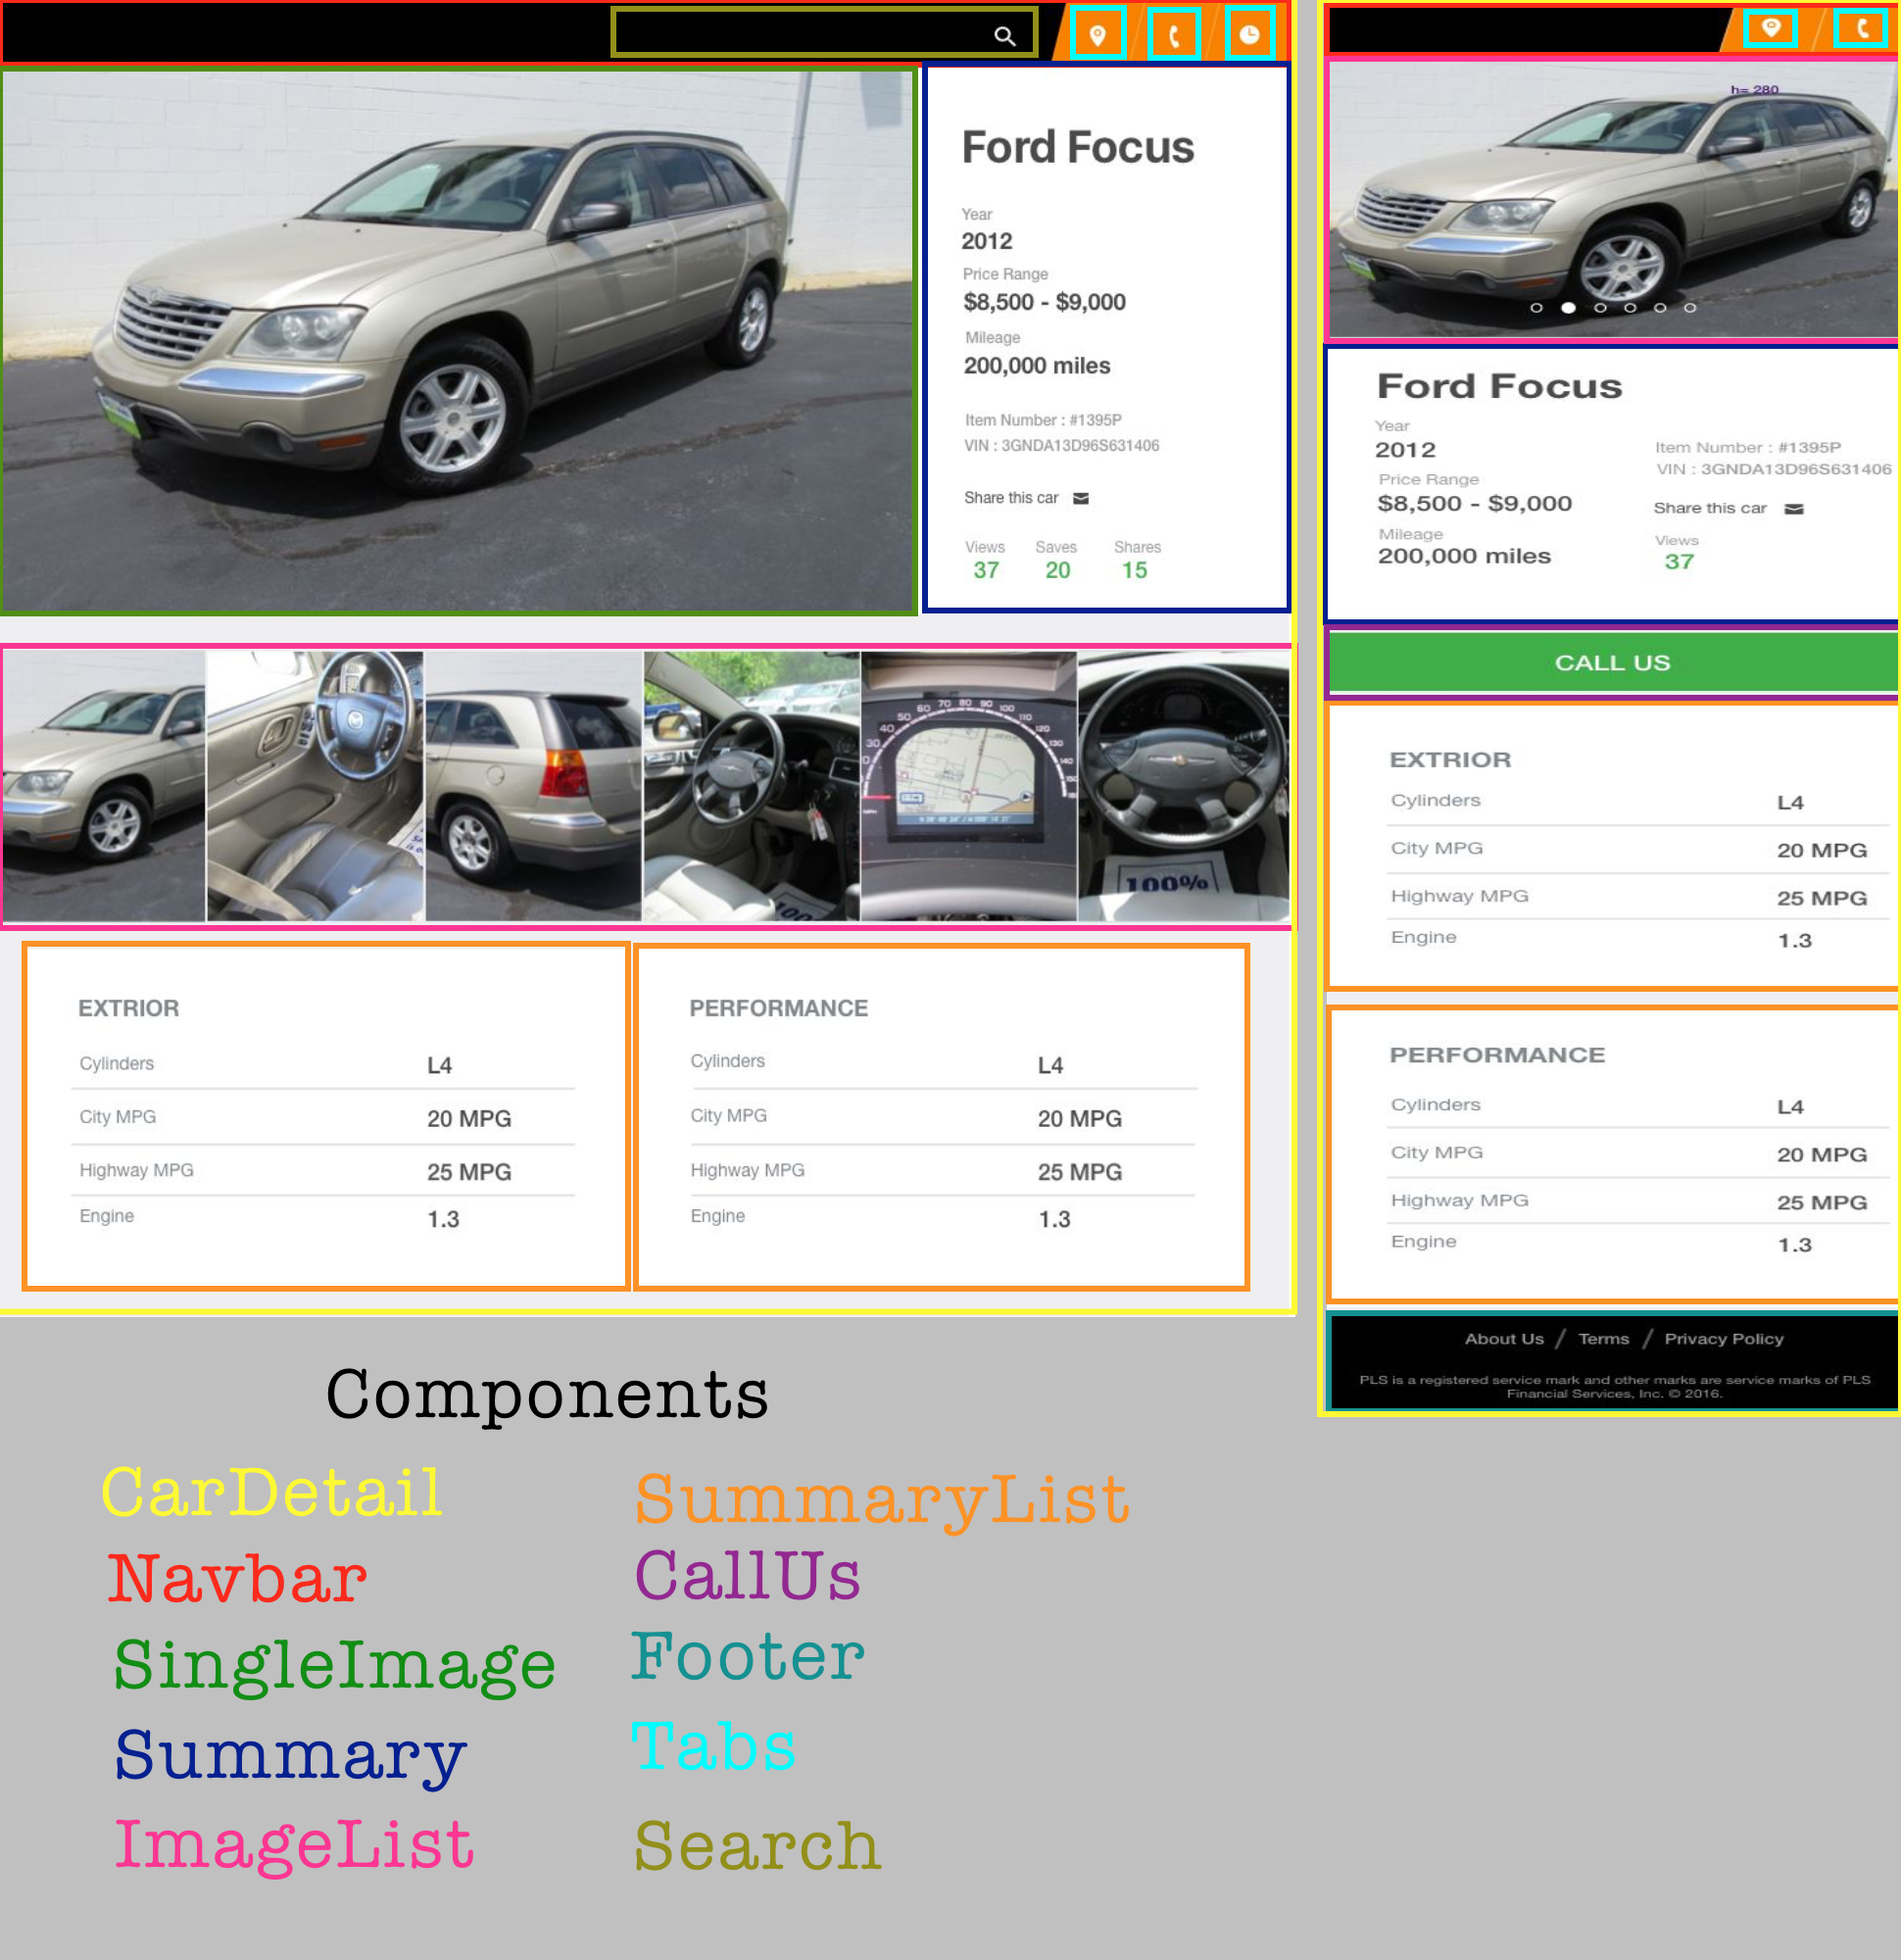
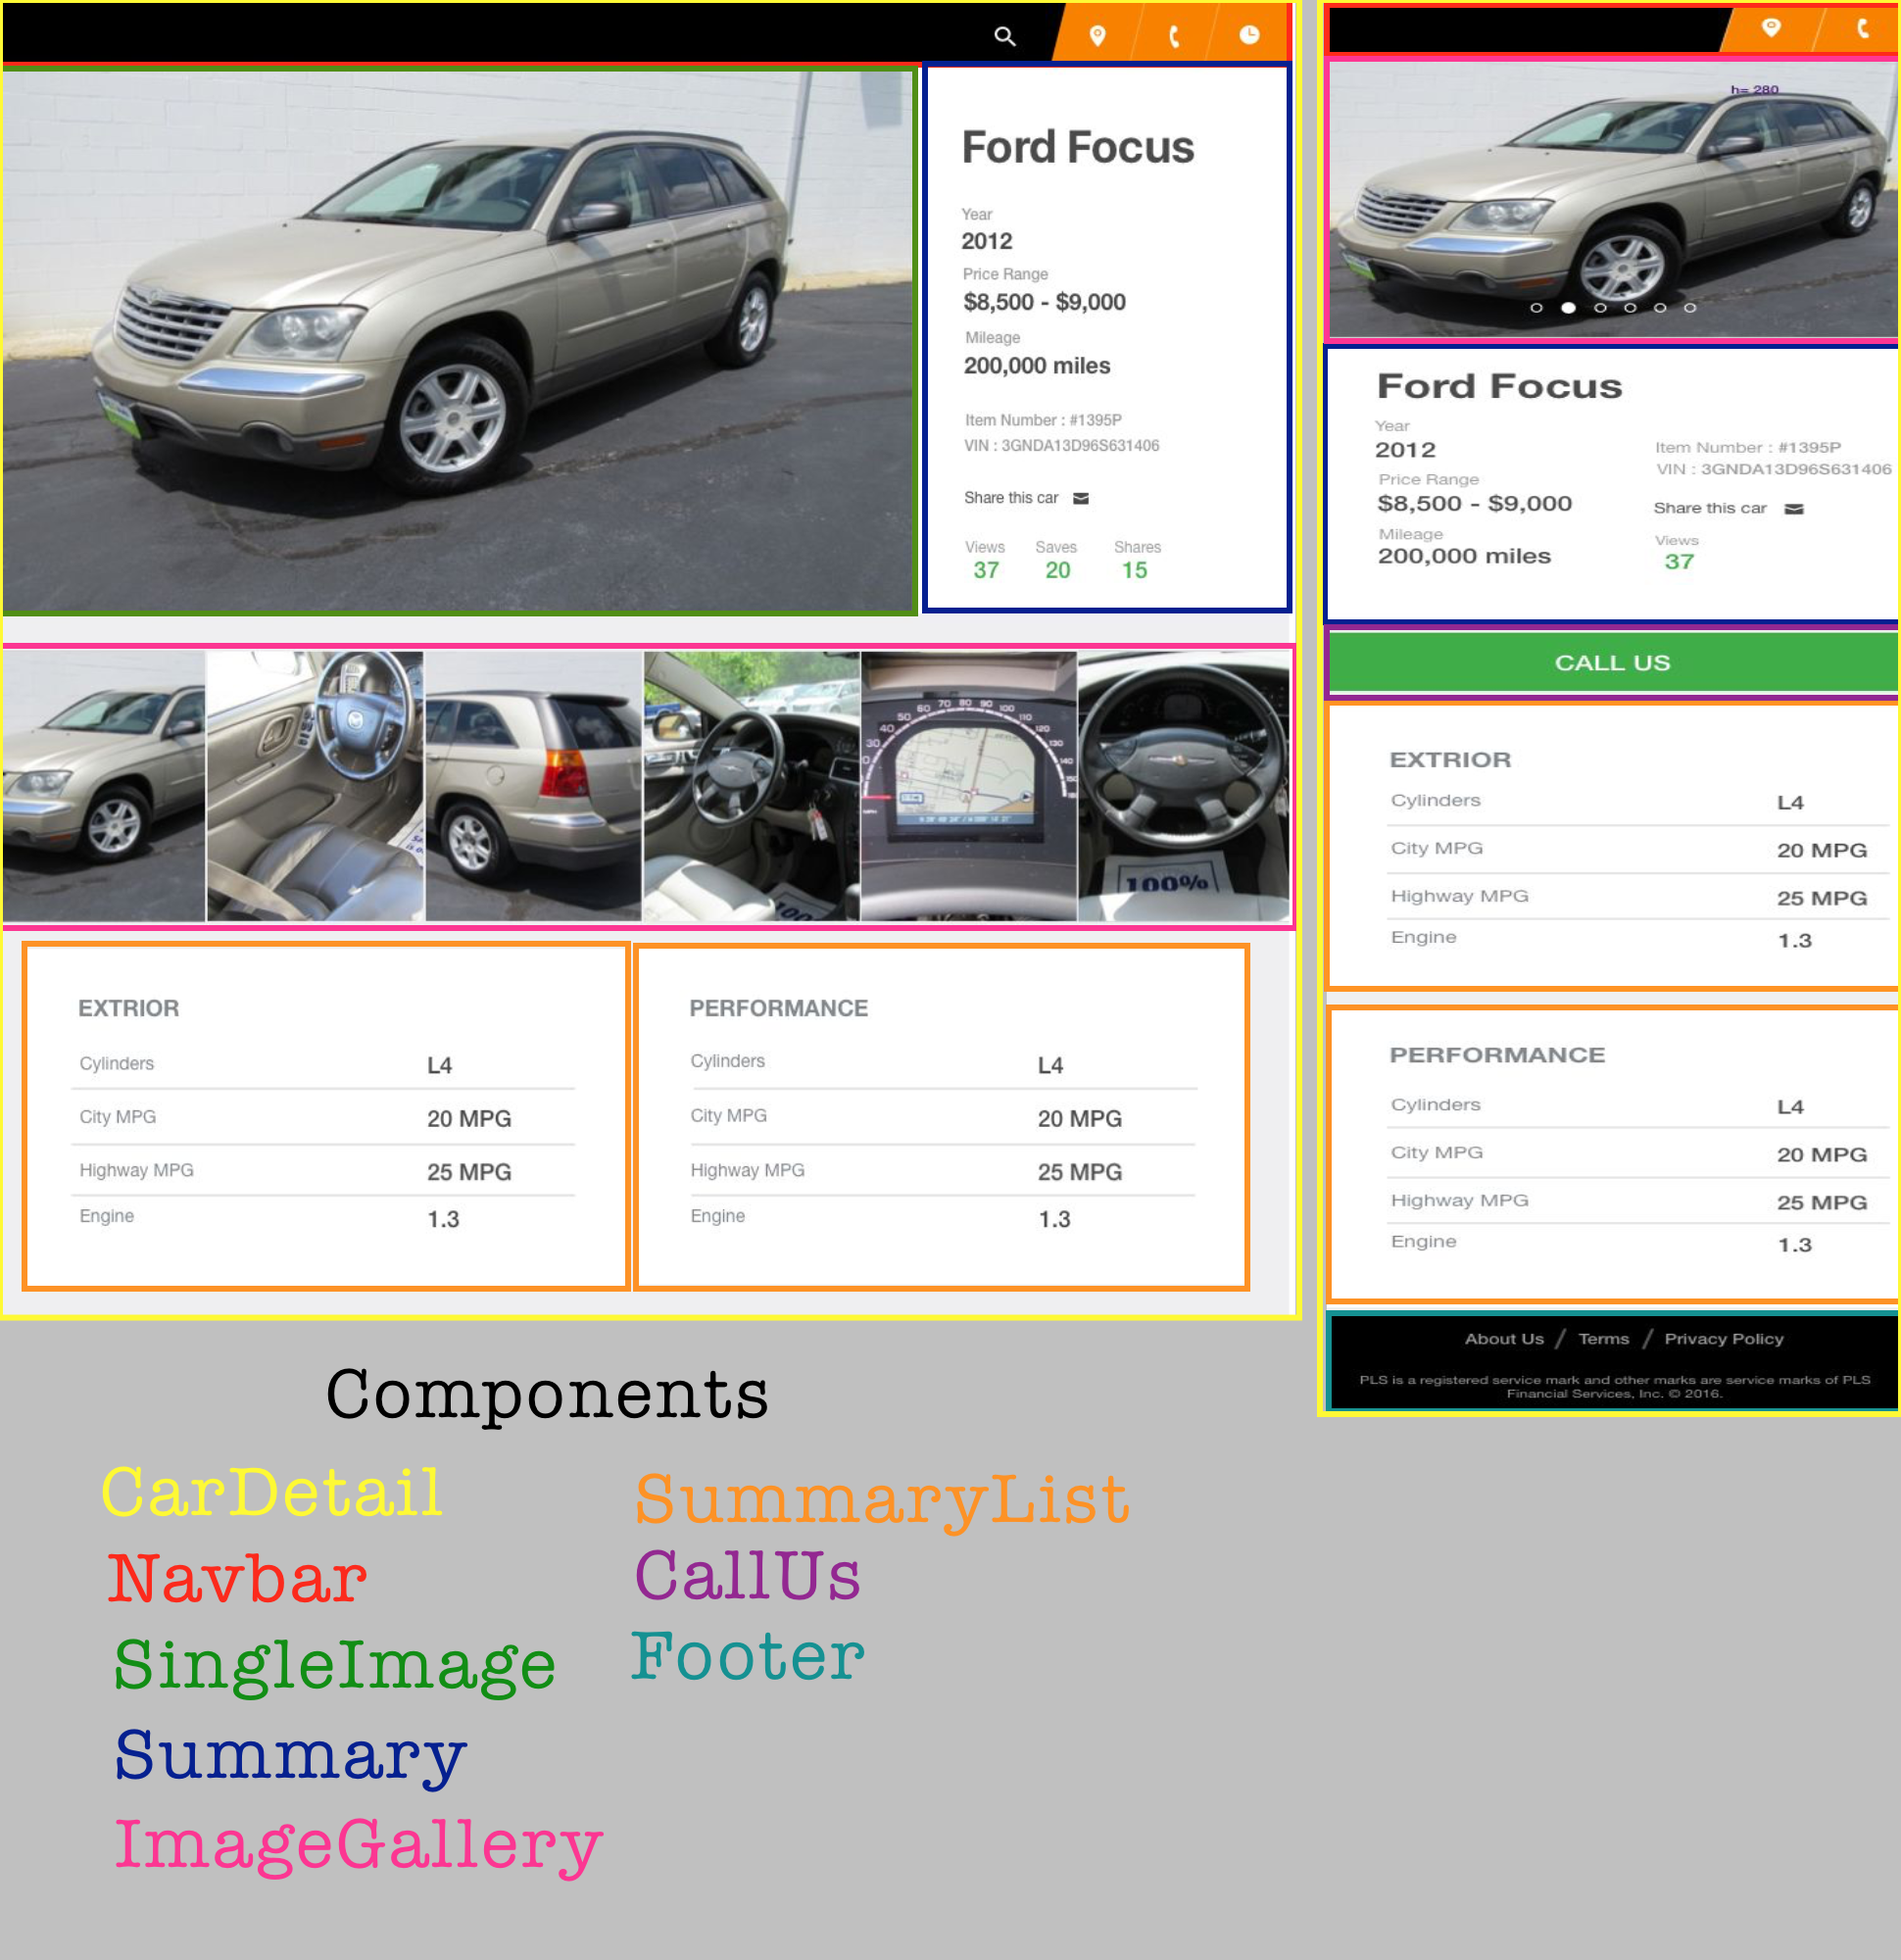
implemented static version of components

diff --git a/src/public/js/car-detail.jsx b/src/public/js/car-detail.jsx
@@ -1,4 +1,13 @@
 import React from 'react';
+import Navbar from './navbar';
+import Search from './search';
+import Tab from './tab';
+import SingleImage from './single-image';
+import Summary from './summary';
+import ImageGallery from './image-gallery';
+import SummaryList from './summary-list';
+import CallUs from './call-us';
+import Footer from './footer';
 
 /*
  * Main component for the WebTask app. Since the app is so small,
@@ -15,7 +24,7 @@ export default class CarDetail extends React.Component {
 
     // Set initial state
     this.state = {
-      width: window.innerWidth
+      width: window.innerWidth,
     };
   }
 
@@ -37,13 +46,108 @@ export default class CarDetail extends React.Component {
     const { width } = this.state;
     const isMobile = width <= 500;
 
+    const images = ['ford1.jpeg', 'ford2.jpeg', 'ford3.jpeg', 'ford4.jpeg', 'ford5.jpeg'];
+    const content = {
+      Cylinders: 'L4',
+      'City MPG': '20',
+      'HighWay MPG': '25',
+      Engine: 1.3,
+    };
+
     if (isMobile) {
       return (
-        <p>Mobile: {this.state.width}</p>
+        <div>
+          <Navbar>
+            <Tab
+              icon="fa-map-marker"
+              title="Directions to dealer"
+              srText="Directions to dealer"
+            />
+            <Tab
+              icon="fa-phone"
+              title="Call dealer"
+              srText="Call dealer"
+            />
+          </Navbar>
+          <ImageGallery
+            images={images}
+          />
+          <Summary
+            itemNumber="1395P"
+            vin="3GNDA13D96S631406"
+            carName="Ford Focus"
+            releaseYear="2012"
+            minPrice="$8,500.00"
+            maxPrice="$9,000.00"
+            mileage="200000"
+            views="37"
+            saves="20"
+            shares="15"
+          />
+          <CallUs />
+          <SummaryList
+            title="Extrior"
+            content={content}
+          />
+          <SummaryList
+            title="Performance"
+            content={content}
+          />
+          <Footer />
+        </div>
       );
     } else {
       return (
-        <p>{this.state.width}</p>
+        <div>
+          <Navbar>
+            <Search />
+            <ul>
+              <Tab
+                icon="fa-map-marker"
+                title="Directions to dealer"
+                srText="Directions to dealer"
+              />
+              <Tab
+                icon="fa-phone"
+                title="Call dealer"
+                srText="Call dealer"
+              />
+              <Tab
+                icon="fa-pie-chart"
+                title="Stats"
+                srText="Stats"
+              />
+            </ul>
+          </Navbar>
+          <main>
+            <SingleImage
+              picture="ford1.jpeg"
+            />
+            <Summary
+              itemNumber="1395P"
+              vin="3GNDA13D96S631406"
+              carName="Ford Focus"
+              releaseYear="2012"
+              minPrice="$8,500.00"
+              maxPrice="$9,000.00"
+              mileage="200000"
+              views="37"
+              saves="20"
+              shares="15"
+            />
+            <ImageGallery
+              images={images}
+            />
+            <SummaryList
+              title="Extrior"
+              content={content}
+            />
+            <SummaryList
+              title="Performance"
+              content={content}
+            />
+          </main>
+        </div>
       );
     }
   }

diff --git a/src/public/js/summary.jsx b/src/public/js/summary.jsx
@@ -1,0 +1,48 @@
+import React from 'react';
+
+export default function Navbar(props) {
+  return (
+    <div>
+      <h4>{props.carName}</h4>
+      <h4>Year</h4>
+      <h4>{props.releaseYear}</h4>
+      <h4>Price Range</h4>
+      <h4>{props.minPrice} - {props.maxPrice}</h4>
+      <h4>Mileage</h4>
+      <h4>{props.mileage.replace(/\B(?=(\d{3})+(?!\d))/g, ',')} miles</h4>
+      <h4>Item Number: #{props.itemNumber}</h4>
+      <h4>VIN: {props.vin}</h4>
+      <h4>
+        <a href="mailto:someone@not-real.com?Subject=Not%20Real" target="_top">Share This Car</a>
+        <i className="fa fa-envelope" aria-hidden="true"></i>
+      </h4>
+      <div>
+        <h4>Views</h4>
+        <h4>{props.views}</h4>
+      </div>
+      <div>
+        <h4>Saves</h4>
+        <h4>{props.saves}</h4>
+      </div>
+      <div>
+        <h4>Shares</h4>
+        <h4>{props.shares}</h4>
+      </div>
+    </div>
+  );
+}
+
+const propTypes = {
+  itemNumber: React.PropTypes.string,
+  vin: React.PropTypes.string,
+  carName: React.PropTypes.string,
+  releaseYear: React.PropTypes.string,
+  minPrice: React.PropTypes.string,
+  maxPrice: React.PropTypes.string,
+  mileage: React.PropTypes.string,
+  views: React.PropTypes.string,
+  saves: React.PropTypes.string,
+  shares: React.PropTypes.string,
+};
+
+Navbar.propTypes = propTypes;

diff --git a/src/public/js/summary-list.jsx b/src/public/js/summary-list.jsx
@@ -1,0 +1,28 @@
+import React from 'react';
+
+export default function SummaryList(props) {
+  const items = Object.keys(props.content).map((key, i) => {
+    return (
+      <li key={i}>
+        <h4>{key}</h4>
+        <h4>{props.content[key]}</h4>
+      </li>
+    );
+  });
+
+  return (
+    <div>
+      <h4>{props.title}</h4>
+      <ul>
+        {items}
+      </ul>
+    </div>
+  );
+}
+
+const propTypes = {
+  title: React.PropTypes.string,
+  content: React.PropTypes.object,
+};
+
+SummaryList.propTypes = propTypes;

diff --git a/src/public/js/tab.jsx b/src/public/js/tab.jsx
@@ -1,0 +1,18 @@
+import React from 'react';
+
+export default function Tab(props) {
+  return (
+    <li>
+      <i className={'fa ' + props.icon} title={props.title} aria-hidden="true"></i>
+      <span className="sr-only">{ props.srText }</span>
+    </li>
+  );
+}
+
+const propTypes = {
+  icon: React.PropTypes.string,
+  title: React.PropTypes.string,
+  srText: React.PropTypes.string,
+};
+
+Tab.propTypes = propTypes;

diff --git a/src/public/js/image-gallery.jsx b/src/public/js/image-gallery.jsx
@@ -1,0 +1,24 @@
+import React from 'react';
+
+export default function ImageGallery(props) {
+
+  const list = props.images.map((picture, i) => {
+    return (
+      <li key={i}>
+        <img src={'img/' + picture} />
+      </li>
+    );
+  });
+
+  return (
+    <ul>
+      {list}
+    </ul>
+  );
+}
+
+const propTypes = {
+  images: React.PropTypes.array,
+};
+
+ImageGallery.propTypes = propTypes;

diff --git a/src/public/js/footer.jsx b/src/public/js/footer.jsx
@@ -1,0 +1,20 @@
+import React from 'react';
+
+export default function CallUs() {
+  return (
+    <footer>
+      <ul>
+        <li>
+          <a href="/">About US</a>
+        </li>
+        <li>
+          <a href="/">Terms</a>
+        </li>
+        <li>
+          <a href="/">Privacy Policy</a>
+        </li>
+      </ul>
+      <p>Copy right notice</p>
+    </footer>
+  );
+}

diff --git a/src/public/index.html b/src/public/index.html
@@ -9,6 +9,7 @@
 	<meta name="viewport" content="width=device-width, initial-scale=1.0">
 	<meta http-equiv="X-UA-Compatible" content="ie=edge">
 	<link rel="stylesheet" href="webtask.1.0.0.css">
+  <link rel="stylesheet" href="https://use.fontawesome.com/7927600000.css">
 </head>
 
 <body>

diff --git a/src/public/js/single-image.jsx b/src/public/js/single-image.jsx
@@ -1,0 +1,13 @@
+import React from 'react';
+
+export default function SingleImage(props) {
+  return (
+    <img src={'img/' + props.picture} />
+  );
+}
+
+const propTypes = {
+  picture: React.PropTypes.string,
+};
+
+SingleImage.propTypes = propTypes;

diff --git a/src/public/js/navbar.jsx b/src/public/js/navbar.jsx
@@ -1,0 +1,15 @@
+import React from 'react';
+
+export default function Navbar(props) {
+  return (
+    <nav>
+      {props.children}
+    </nav>
+  );
+}
+
+const propTypes = {
+  children: React.PropTypes.node,
+};
+
+Navbar.propTypes = propTypes;

diff --git a/src/public/js/search.jsx b/src/public/js/search.jsx
@@ -1,0 +1,9 @@
+import React from 'react';
+
+export default function Search(props) {
+  return (
+    <div>
+      <input type="search" /><i className="fa fa-search" aria-hidden="true"></i>
+    </div>
+  );
+}

diff --git a/src/public/js/call-us.jsx b/src/public/js/call-us.jsx
@@ -1,0 +1,7 @@
+import React from 'react';
+
+export default function CallUs() {
+  return (
+    <a href="tel:5555555555">Call Us</a>
+  );
+}
